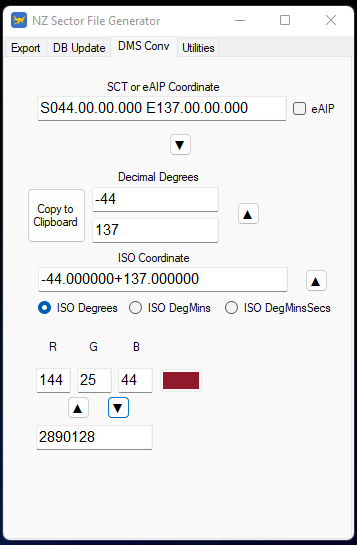
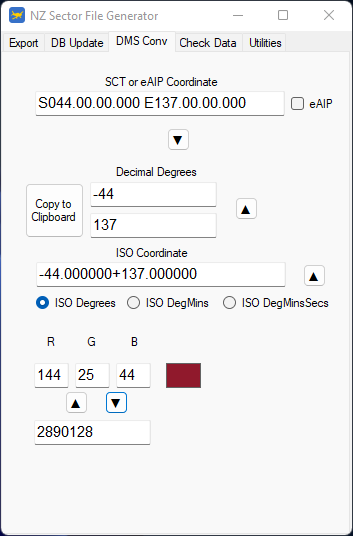
add: Add Procedure Check

diff --git a/docs/assist-us/sectorfiles/datamanagement/procedurecheck.md b/docs/assist-us/sectorfiles/datamanagement/procedurecheck.md
@@ -1,0 +1,50 @@
+---
+  title: Procedure Cross-Checking
+---
+
+--8<-- "includes/abbreviations.md"
+
+The SFG has a utility that allows you to cross-check between the procedures stored in the database, and the procedures promulgated in the ANR Part 95 procedure sheets. There are some limitations that are described below.
+
+The procedure sheets are updated every ANR cycle, and can be found under [ANR Part 3.2 and 3.3](https://www.aip.net.nz/document-category/Air-Navigation-Register). Additionally, it will be included with any advance copy of the ANR.
+
+!!! warning "Final Checks"
+    The Procedure Checker should be run as a part of the final release checks for the dataset. Even if you haven't amended any procedures, it can be useful in identifying any existing errors.
+
+## Limitations
+
+The ANR currently only describes procedures for RNAV or RNP procedures, so will not contain any radar or VOR-based departures, such as the NZPM `GOLF 2`. 
+
+## Process
+
+### Running the Checks
+
+1. Navigate to the `Check Data` tab, and select which categories you wish to cross-check. By default categories A through D will be checked, with H disabled.
+2. Click on ++"Check SID/STAR Names"++, which will open a dialog box. Navigate to the location where the ANR Check Files are stores, and using the ++"CTRL"++ key, select both the SID and STAR files, then click ++"Open"++. The SFG will then run its sequence.
+
+!!! tip
+    The SFG will save the output file in the same directory where the source files are located, and **not** the current AIRAC working directory.
+
+### Understanding the Checks
+
+The layout for the output is -
+
+1. SIDs that are in the ANR Domestic Departure list, but not in the Database
+2. SIDs that are in the Database, but do not exist in the ANR Domestic Departure list.
+3. STARs that are in the ANR Domestic Arrivals list, but not in the Database.
+4. STARs that are in the Database, but do not ecist in the ANR Domestic Arrivals list.
+
+For points 2 or 4 above, this is where you will find non-RNAV approaches listed, such as radar departures, or VOR-based procedures such as the NZAR `CABLE 1` departure, or the NZNR `NR 2A` arrival.
+
+### Responses
+
+- For procedures that are listed in Section 1 and 3 above, you should investigate as to why there is a discrepency. These could be:
+    - a completely missing procedure,
+    - a mislabelled procedure, such as a misspelled waypoint name or an incorrect designator,
+    - that the procedure has been assigned to the incorrect runway
+        - in this case, the procedure should also be listed in Section 2 as existing in the database but not in the ANR.
+
+!!! info "ANR File containing old data"
+    Sometimes the ANR will contain historical data, where previously removed files still exist in the file, but newly released procedures have also been inserted. In this case, use the AIP website to confirm that these procedures no longer exist.
+
+

diff --git a/docs/assist-us/sectorfiles/InterfaceOverview.md b/docs/assist-us/sectorfiles/InterfaceOverview.md
@@ -6,7 +6,10 @@ title: Interface Overview
 
 This section will run through the buttons on each interface screen, and link to the respective page within the SFG guide.
 
-![SFG Main Screen](assets/mainScreen.png){ align=right width="350"} 
+<figure markdown> 
+  ![SFG Main Screen](assets/mainScreen.png){ width="350"} 
+  <figcaption>Main Screen</figcaption>
+</figure>
 
 ### Export Tab
 
@@ -22,9 +25,22 @@ This section will run through the buttons on each interface screen, and link to 
 
 * ++"Export vatSys"++ and ++"Export Euroscope"++ do exactly that - export the NZZC and Pacific datasets to the current working directory.
 
+### Check Data Tab
+
+<figure markdown> 
+  ![Data Check Tab](assets/dataCheckScreen.png){ width="350" }
+  <figcaption>Data Check Tab</figcaption>
+</figure>
+
+* ++"Check SID/STAR Names"++ checks all of the procedures in the database against the AIP-supplied Part 95 Procedure sheets. The "Supported Categories" tickboxes dictate what category of procedures are checked - [more information](datamanagement/procedurecheck.md)
+
 ### DB Update Tab
 
-![SFG Database Screen](assets/dbScreen.png){ align=right width="350"}
+<figure markdown> 
+  ![Database Screen](assets/dbScreen.png){ align=right width="350"}
+  <figcaption>Database Screen</figcaption>
+</figure>
+
 
 * ++"Procedure Editor"++ opens the Procedure Editor screen - [more information](DataManagement/ProcedureEditor.md){ target=blank }
 
@@ -44,7 +60,10 @@ This section will run through the buttons on each interface screen, and link to 
 
 ### Utilities Tab
 
-![SFG Utilities Screen](assets/UtilitiesScreen.png){ align=right width="350"}
+<figure markdown> 
+  ![Utilities Screen](assets/UtilitiesScreen.png){ width="350"}
+  <figcaption>Utilities Screen</figcaption>
+</figure>
 
 * ++"Convert PDF to Text"++ allows for the manual conversion of ANR files from PDF to text.
 
@@ -58,9 +77,13 @@ This section will run through the buttons on each interface screen, and link to 
 
 * The various coastline functions are [explained here](DataManagement/UpdatingCoastlines.md){ target=blank }.
 
-### DMS Conversion Tab
+### DMS Conversion
 
-![SFG Conversions Screen](assets/DMSConvScreen.png){ align=right width="350"}
+<figure markdown> 
+  ![Conversions Screen](assets/DMSConvScreen.png){ width="350"}
+  <figcaption>Conversions Screen</figcaption>
+</figure>
+
 
 This tab allows for the conversion between SCT/eAIP/Decimal and ISO coordinate formats.
 

diff --git a/docs/assist-us/sectorfiles/index.md b/docs/assist-us/sectorfiles/index.md
@@ -25,7 +25,7 @@ The SFG app can perform the following functions:
 *  Allow for the importing of manual airspace definitions, such as Enroute and TMAs,
 *  Allow for the conversion of various formats. For example from eAIP draw format to Sector File/Sector Line/vatSys Airspace Map, Volume/vatSpy boundary and GeoJSON,
 *  Allow for the merging of airspace, through eAIP definitions (albeit with some limitations),
-*  Allow for the manual import and mapping of different procedures (STARs, SIDs, VFR arrival/departures, GNSS and RNP approaches),
+*  Allow for the manual import and mapping of different procedures (STARs, SIDs, VFR arrival/departures, GNSS and RNP approaches), as well as the cross-checking between AIP promulgated procedures and the procedure database,
 *  Allow for the export of individual procedures to an independant map for Documentation,
 *  Conversion between different coordinate types (SCT/eAIP/Dec. Degrees/ISO Deg, DegMins, DegMinsSecs),
 *  Generate an eAIP output from a vatSys airspace map,
